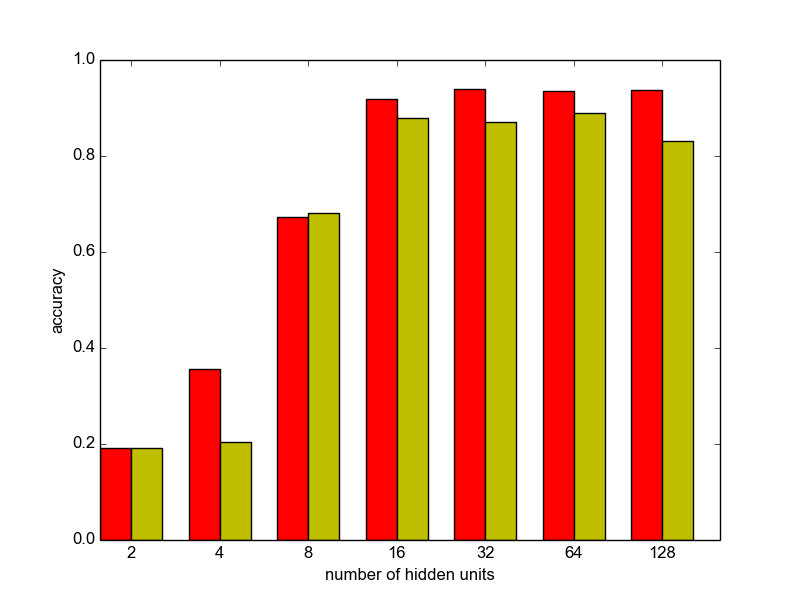
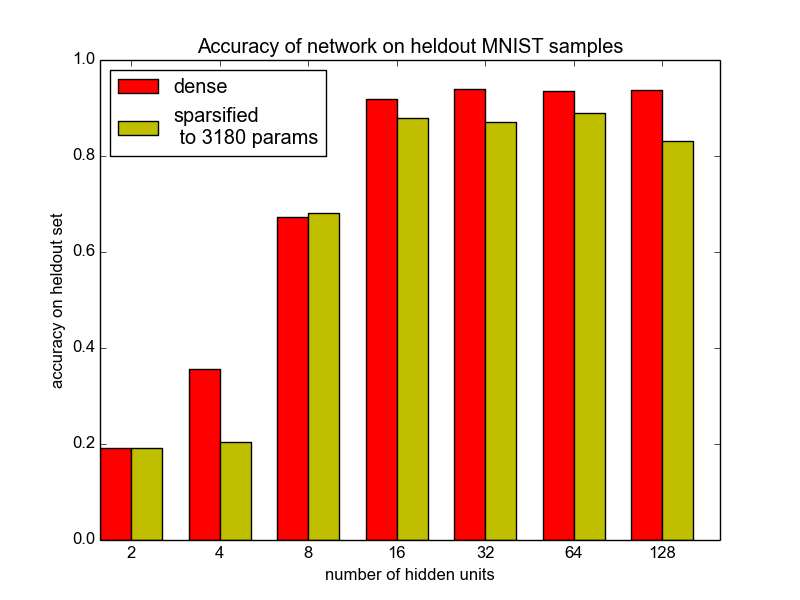
ok, think some more

Changed region(s): [[0.125, 0.06, 0.7812, 0.27], [0.0625, 0.36, 0.0938, 0.66]]

diff --git a/make_charts.py b/make_charts.py
@@ -8,21 +8,25 @@ if __name__ == "__main__":
     width = 0.35
     dense_accuracies = [0.192, 0.356, 0.672, 0.918, 0.94, 0.936, 0.938]
     sparse_accuracies = [0.192, 0.204, 0.682, 0.88, 0.87, 0.89, 0.832]
-    plt.bar(inds, dense_accuracies, width, color='r')
-    plt.bar(inds + width, sparse_accuracies, width, color='y')
+    plt.bar(inds, dense_accuracies, width, color='r', label="dense")
+    plt.bar(inds + width, sparse_accuracies, width, color='y', label="sparsified\n to 3180 params")
     plt.ylabel("accuracy on heldout set")
     plt.xlabel("number of hidden units")
+    plt.title("Accuracy of network on heldout MNIST samples")
     plt.gca().set_xticks(inds + width)
     plt.gca().set_xticklabels(ticks)
+    plt.gca().legend(loc='upper left')
     plt.savefig("accuracy.png")
     plt.close()
     dense_speeds = [181, 224, 290, 452, 798, 1527, 2869]
     sparse_speeds = [181, 203, 191, 200, 199, 225, 256]
-    plt.bar(inds, dense_speeds, width, color='r')
-    plt.bar(inds + width, sparse_speeds, width, color='y')
+    plt.bar(inds, dense_speeds, width, color='r', label='dense')
+    plt.bar(inds + width, sparse_speeds, width, color='y', label='sparsified to 3180 params')
     plt.ylabel("seconds")
     plt.xlabel("number of hidden units")
+    plt.title("Time taken to train whole network on 30000 MNIST samples on my laptop")
     plt.gca().set_xticks(inds + width)
     plt.gca().set_xticklabels(ticks)
+    plt.gca().legend(loc='upper left')
     plt.savefig("speed.png")
     plt.close()

diff --git a/mlp.py b/mlp.py
@@ -131,7 +131,8 @@ class MLP:
             print >> sys.stderr, len(self.weights[i].indices), " / ",\
                     reduce(lambda x, y: x * y, self.weights[i].shape)
 
-    def stupid_sparsify(self):
+    def random_sparsify(self):
+        # experimentation
         self.has_sparsified = True
         for i in range(len(self.weights)-1): # not the softmax layer
             new_sparsifier = self.sparsifiers[i].toarray()
@@ -228,8 +229,8 @@ def test_sparsify(num_epochs, num_sparsifications, num_burnin, num_iters, hidden
 if __name__ == '__main__':
     for x in [2,4,8,16,32,64]:
         test_sparsify(num_epochs=1, num_sparsifications=0, num_burnin=200, num_iters=30000, hidden_units=x)
-    # print "now sparsifying..."
+    print "now sparsifying..."
     for x in [0,1,2,3,4,5]:
         test_sparsify(num_epochs=1, num_sparsifications=x, num_burnin=200, num_iters=30000, hidden_units=128)
-    for x, y in zip([0,1,2,3,4,5], [4,8,16,32,64,128])
+    for x, y in zip([0,1,2,3,4,5], [4,8,16,32,64,128]):
         test_sparsify(num_epochs=1, num_sparsifications=x, num_burnin=200, num_iters=30000, hidden_units=y)
